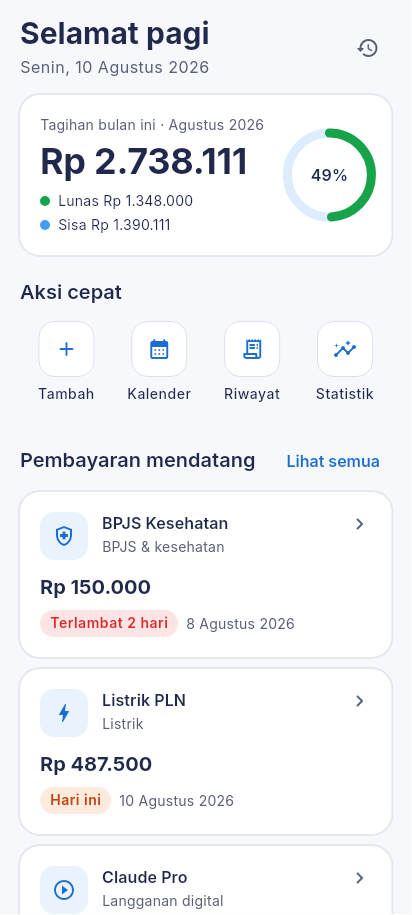
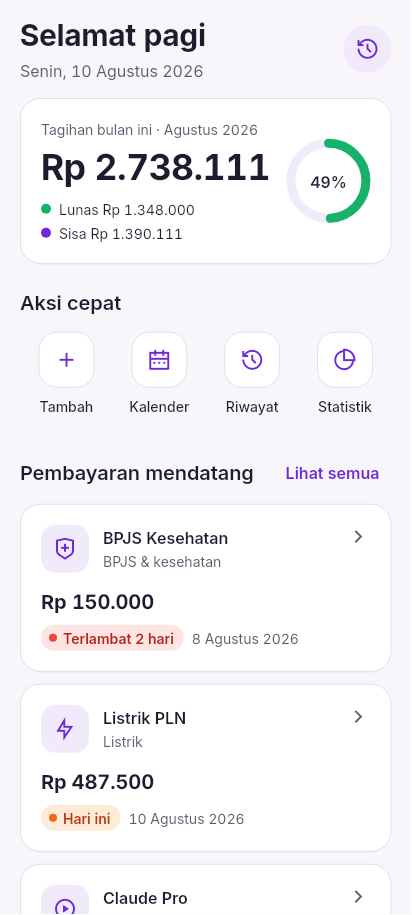
docs(design): document the Plum design system and the UI kit (#46)
DESIGN.md now covers the kit file by file, the Plum palette, Remix
icons, shape and motion tokens, navigation, components and
accessibility, plus a "Not the platform look" section listing the
Material and iOS patterns the app avoids. ARCHITECTURE.md describes
lib/ui and WidgetsApp, and the README gets the Plum badge and new
screenshots from the goldens.

Closes #46

diff --git a/docs/DESIGN.md b/docs/DESIGN.md
@@ -1,90 +1,167 @@
 # B4Due design system
 
-A calm, trustworthy "fintech" look: Material 3, one brand colour (Electric Blue), generous
-spacing, rounded cards. Everything below is implemented in `lib/app/theme.dart`
-(`Palette` for colours, `Tokens` for spacing and radii, `buildAppTheme` for the
-Material theme). Widgets read colours with `context.palette`, never hard-coded values.
+A calm, trustworthy look with one brand colour (Plum), generous spacing and rounded cards.
+B4Due draws every control itself: there are **no Material or Cupertino widgets** in `lib/`
+(enforced by `test/ui/no_material_test.dart`). The app runs on `WidgetsApp` and the kit in
+`lib/ui/`:
+
+| File | Contents |
+|---|---|
+| `tokens.dart` | `Palette` (colours, light and dark) and `Tokens` (spacing, radii, motion) |
+| `theme.dart` | `AppText` (type scale), `B4ThemeScope`, `context.palette`, `context.text` |
+| `icons.dart` | `RemixIcons`: the subset of Remix Icon the app uses |
+| `pressable.dart` | `Pressable`: the tap primitive behind every control |
+| `buttons.dart` | `B4Button` (primary, tonal, outline, ghost; destructive), `B4IconButton`, `B4TicketButton` |
+| `surfaces.dart` | `B4Card`, `B4ListGroup`, `B4ListRow`, `B4IconTile`, `B4Note`, `B4EmptyState` |
+| `controls.dart` | `B4Switch`, `B4SwitchRow`, `B4Chip`, `B4FilterTag` |
+| `text_field.dart` | `B4TextField`, `B4TextFormField`, `B4SearchField`, selection handles, text menu |
+| `pickers.dart` | `B4FieldButton`, `B4SelectField`, `B4MonthGrid`, date and time pickers |
+| `overlays.dart` | `showB4Sheet`, `showB4Dialog`, `showB4Confirm`, `B4Toast` |
+| `scaffold.dart` | `B4Scaffold`, `B4TopBar`, `B4PageTitle`, `B4SectionHeader`, `B4BottomNav` |
+| `navigation.dart` | page transitions for go_router, `B4Expandable` |
+
+Widgets read colours with `context.palette` and styles with `context.text`, never hard-coded
+values. Import everything with `import '../ui/ui.dart';`.
 
 ## Logo
 
-A white calendar card with a Midnight Navy header and a check mark in primary text blue
-(`#1C6DD0`), on a diagonal Electric Blue (`#459AF8`) to Cornflower (`#375390`) gradient.
-Sources: the adaptive-icon vectors in `android/app/src/main/res/drawable/ic_launcher_*.xml`
-(including a monochrome version for themed icons) and `tool/generate_icons.py`, which renders
-the same geometry as PNG for older Android, iOS and `docs/images/icon-512.png`. The
-notification icon is the same mark as a white silhouette, tinted Electric Blue. The splash
-screen uses the page background (`#F7F8FC` light, `#0F172A` dark).
+A white calendar card with an Ink (`#1F1A2E`) header and a Plum (`#6D28D9`) check mark, on a
+diagonal Violet (`#8B5CF6`) to deep Plum (`#4C1D95`) gradient. Sources: the adaptive-icon
+vectors in `android/app/src/main/res/drawable/ic_launcher_*.xml` (including a monochrome
+version for themed icons) and `tool/generate_icons.py`, which renders the same geometry as PNG
+for older Android, iOS and `docs/images/icon-512.png`. The notification icon is the same mark
+as a white silhouette, tinted Plum. The splash screen uses the page background (`#F8F6FB`
+light, `#14111C` dark). The logo is our own drawing; Remix Icon's licence does not allow its
+icons as a logo.
 
 ## Colour
 
+Plum was chosen because it collides with none of the status colours, so a coloured chip always
+means a state, never the brand. White on Plum is 7.1:1.
+
 | Role | Light | Dark | Use |
 |---|---|---|---|
-| Primary (Electric Blue) | `#459AF8` | `#459AF8` | filled buttons, FAB, selected chips, today in the calendar |
-| On primary | `#20294C` | `#0B1530` | text and icons on blue fills |
-| Primary text | `#1C6DD0` | `#6CB0FA` | links, icons, "≈ Rp …" estimates |
-| Midnight Navy | `#20294C` | – | text, snackbar background |
-| Background | `#F7F8FC` | `#0F172A` | page |
-| Surface / card | `#FFFFFF` | `#1E293B` / `#243247` | cards, sheets, navigation bar |
-| Surface variant | `#F0F1F5` | `#243247` | input fills, icon tiles |
-| Outline | `#C7CBDB` | `#334155` | card borders, dividers |
+| Primary (Plum) | `#6D28D9` | `#B197FC` | filled buttons, FAB, selected chips and tabs, today in the calendar |
+| On primary | `#FFFFFF` | `#1A1033` | text and icons on Plum fills |
+| Primary text | `#6D28D9` | `#C4B1FD` | ghost buttons, icons, "≈ Rp …" estimates |
+| Primary soft | `#F0EAFB` | `#2E2547` | icon tiles, sheet close button, toast action |
+| Background | `#F8F6FB` | `#14111C` | page |
+| Surface | `#FFFFFF` | `#1F1A2B` | cards, sheets, dialogs, navigation bar |
+| Surface variant | `#F1EDF7` | `#2A2438` | input fills |
+| Outline / strong | `#E4DEEC` / `#CFC6DC` | `#2E2740` / `#453C5C` | card borders, dividers / outlined buttons, chips |
+| Text / secondary | `#1F1A2E` / `#625B70` | `#EDE9F5` / `#A9A2BA` | |
+| Inverse surface | `#1F1A2E` | `#EDE9F5` | chart tooltips |
+
+Charts use `Palette.chart`: Plum first, then sky, teal, amber, magenta, lavender, blue and grey.
 
 ### Status
 
-Each bill has one status (`BillStatus`), shown as a coloured dot (calendar) and a tinted chip
-with a label (cards). Colour is never the only signal: the chip always carries text such as
-"Terlambat 2 hari" or "Hari ini".
+Each bill has one status (`BillStatus`), shown as a coloured dot (calendar) and a chip with a
+dot and a label (cards). Colour is never the only signal: the chip always carries text such as
+"Terlambat 2 hari" or "Hari ini". **Mendatang** (upcoming) is deliberately neutral, so only
+states that need action are coloured.
 
-| Status | Dot / tint | Text (light) | Text (dark) |
+| Status | Dot | Text / chip (light) | Text / chip (dark) |
 |---|---|---|---|
-| Lunas (paid) | `#16A34A` | `#15803D` | `#22C55E` |
-| Mendatang (upcoming, > 3 days) | `#3B82F6` | `#2563EB` | `#60A5FA` |
-| Segera (due within 3 days) | `#F59E0B` | `#B45309` | `#F59E0B` |
-| Hari ini (today) | `#F97316` | `#C2410C` | `#FB923C` |
-| Terlambat (overdue) | `#EF4444` | `#DC2626` | `#F87171` |
-| Dihapus (cancelled) | `#94A3B8` | – | – |
+| Lunas (paid) | `#17B26A` | `#067647` on `#DCFAE6` | `#47CD89` on `#0E3123` |
+| Mendatang (upcoming, > 3 days) | `#8E87A0` | `#524B63` on `#EFECF4` | `#BDB6CC` on `#2A2438` |
+| Segera (due within 3 days) | `#F79009` | `#B54708` on `#FEF0C7` | `#FDB022` on `#3A2A08` |
+| Hari ini (today) | `#EF6820` | `#B93815` on `#FDEAD7` | `#FF9C66` on `#3D2113` |
+| Terlambat (overdue) | `#F04438` | `#B42318` on `#FEE4E2` | `#F97066` on `#3D1916` |
+| Dihapus (cancelled) | `#A39CB4` | – | – |
 
 ## Typography
 
-Inter (bundled, SIL OFL 1.1). Display 36/30 bold for page titles and the monthly total,
-headline 24/20 semibold, title 18/16, body 16/14, labels 14. **Nothing is smaller than 14sp**,
-and every screen is checked at 160 % system font size (golden test `home_large_text.png`).
+Inter (bundled, SIL OFL 1.1) with tabular figures, so amounts and dates line up. Display 36/30
+bold for the monthly total and page titles, headline 24/20 semibold, title 18/16, body 16/14,
+labels 14. **Nothing is smaller than 14sp**, and every screen is checked at 160 % system font
+size (golden test `home_large_text.png`). Bottom-navigation labels scale down only when a label
+is too wide for its slot.
 
-## Shape and spacing
+## Icons
+
+[Remix Icon](https://remixicon.com) **v4.8.0**, the last release under the Apache License 2.0
+(later releases use a custom licence). The font is vendored in `assets/fonts/RemixIcon.ttf`
+with its licence beside it; release builds tree-shake it to the glyphs in
+`lib/ui/icons.dart`. Line icons everywhere; filled icons only for the selected tab.
+
+## Shape, spacing and motion
 
 | Token | Value |
 |---|---|
 | Page padding | 20 |
 | Section gap / card gap / list gap | 24 / 16 / 12 |
 | Card radius | 20 |
-| Button and input radius, height | 16, 56 |
+| Button and input radius, height | 16, 56 (compact 44) |
+| Chip radius, height | 12, 40 |
 | Dialog radius | 24 |
 | Bottom sheet radius | 28 |
-| Bottom navigation | height 80, top corners 24 |
-| Motion | 200 ms |
+| Bottom navigation | floating dock, radius 24, 12 from the sides |
+| Touch target | at least 48 |
+| Motion | 200 ms (280 ms for sheets and page pushes), ease-out cubic |
+
+Pressed controls scale down slightly (to 98 %, icon buttons 92 %) and tint, instead of a ripple.
+Cards have a 1px outline; light mode adds a soft shadow, dark mode relies on the outline.
 
 ## Navigation
 
-Five tabs: **Beranda**, **Kalender**, **Langganan**, **Statistik**, **Pengaturan**. Each tab
-keeps its own scroll position. Detail pages (bill detail, form, history, PIN, battery guide)
-open full screen above the tabs with a back button. Bottom sheets open above the navigation bar.
+Five tabs: **Beranda**, **Kalender**, **Langganan**, **Statistik**, **Pengaturan**. The tabs sit in
+a dock floating above the page edge; the active tab gets a Plum marker hanging from the dock's
+top edge (like the tab on a calendar divider) above a filled icon. Each tab keeps its own scroll position. Detail pages
+(bill detail, form, history, PIN, battery guide) slide in above the tabs with a back button.
+Sheets slide up from the bottom with a title and a close button, and can also be dragged
+down to close.
 
 ## Components
 
 - **Subscription card**: category tile, name and category, price (foreign currency shows
   "US$20,00 ≈ Rp 357.611"), status chip and due date. Swipe right: mark as paid (with undo).
-  Swipe left: delete (asks first). The whole card is one accessible button with a combined label.
+  Swipe left: delete (asks first).
 - **Monthly spending card**: this month's total, paid versus remaining, and a progress ring
   (decorative; screen readers read the percentage once).
+- **Add button** (`B4TicketButton`): shaped like a bill ticket, with an icon stub, a dashed
+  perforation and notches top and bottom, then the label "Tambah tagihan".
+- **Switch**: a squircle track with a square knob that keeps its size; position and fill tell
+  the state, no icon in the knob.
+- **Chips**: a leading ring, hollow when off and filled when on, so the choice reads without
+  colour; selected chips are filled Plum, unselected ones a soft fill without a border.
+- **Text fields**: label above the field, Plum focus border, error message with an icon below.
+  Long-press opens the app's own Potong / Salin / Tempel / Pilih semua menu, a light card with
+  Plum labels.
+- **Pickers**: dropdowns are sheets listing the options; the date picker is a month grid of
+  rounded-square days with a tappable title for jumping years; the time picker has hour and
+  minute steppers (minutes in steps of five) plus quick times 07.00, 09.00, 12.00, 17.00 and
+  20.00. Screen readers adjust the steppers with swipe up/down.
+- **Dialogs**: an icon tile (red for destructive actions), title, text, and two buttons of equal
+  width: outlined cancel and filled confirm.
+- **Toast**: replaces snackbars. A light card with a status-coloured edge and icon tile at the
+  top of the screen (never under the keyboard, navigation bar or add button), optional action
+  such as "Batalkan", swipe up to dismiss.
+- **Loading**: three Plum dots pulsing in turn.
+- **PIN pad**: rounded-square keys, not the round keys of a system lock screen.
 - **Empty state**: illustration tile, title, one sentence, one primary action.
+- **Detail rows**: long-press copies the value (handy for a customer number in the notes).
 
-## Accessibility (WCAG AA) adjustments to the original spec
+## Accessibility (WCAG AA)
 
-- White on Electric Blue is only 2.9:1, so text and icons on blue use Midnight Navy (4.9:1).
-- Status colours from the spec are kept for dots and backgrounds; status *text* uses the darker
-  (light mode) or lighter (dark mode) shades above to reach 4.5:1.
-- Swipe backgrounds use `#15803D` (paid) and `#DC2626` (delete) behind white icons and text.
-- Minimum text size is 14sp instead of 12sp.
-- Touch targets are at least 48dp.
+- Every text/background pair the kit draws is checked at 4.5:1 or more, in both themes
+  (`test/ui/palette_contrast_test.dart`).
+- Status dots use the bright shades; status text uses darker (light mode) or lighter (dark mode)
+  shades on a tinted chip to reach 4.5:1.
+- Swipe backgrounds use `#067647` (paid) and `#B42318` (delete) behind white icons and text.
+- Icon-only buttons always have a spoken label; switches and selected chips report their state.
+- Minimum text size is 14sp. Touch targets are at least 48dp.
+
+## Not the platform look
+
+Being drawn by the app is not enough; controls must not *look* like Android (Material) or iOS
+defaults either. So there is no ripple, no pill navigation indicator, no thumb-growing switch,
+no extended FAB, no check-mark filter chips, no drag handle on sheets, no right-aligned text
+buttons in dialogs, no dark snackbar, no spinning arc, no wheel or clock time picker, and no
+round calendar-day or PIN keys. New components follow the same rule.
+
+The only system UI left is what Android itself draws and the app cannot replace: the
+fingerprint prompt, the file picker for backups, the share sheet and notifications.
 
 ## Deliberate differences from the original spec
 

diff --git a/docs/ARCHITECTURE.md b/docs/ARCHITECTURE.md
@@ -9,7 +9,8 @@ the app is closed. This document explains those choices.
 ```
 lib/
   main.dart                 start-up: time zone, notifications, database, providers
-  app/                      MaterialApp, theme, routes (go_router)
+  ui/                       the app's own UI kit: tokens, theme, icons, components
+  app/                      WidgetsApp, app frame, shell, routes (go_router)
   core/
     database/               Drift database, tables, converters, generated migrations
     format/                 Rupiah and Indonesian date formatting
@@ -29,9 +30,12 @@ Features: `bills`, `payments`, `reminders`, `home`, `insights` (calendar view an
 statistics), `currency`, `templates`, `backup`, `security`, `calendar` (device calendar
 export), `battery`, `onboarding`, `settings`.
 
-The UI follows [DESIGN.md](DESIGN.md): colours and spacing live in `app/theme.dart`
-(`Palette` theme extension, `Tokens`), and the five tabs are a go_router
-`StatefulShellRoute` (`app/shell.dart`); detail pages are pushed above the bottom navigation.
+The UI follows [DESIGN.md](DESIGN.md). There are no Material or Cupertino widgets: the app
+runs on `WidgetsApp`, and every control comes from `lib/ui/` (colours and spacing in
+`ui/tokens.dart`, read through `context.palette` and `context.text`). A test fails if anything
+in `lib/` imports `material.dart` or `cupertino.dart`. The five tabs are a go_router
+`StatefulShellRoute` (`app/shell.dart`); detail pages are pushed above the bottom navigation
+with the kit's own page transition.
 
 Domain code has no Flutter imports, so the rules are unit-tested without widgets or a device.
 State is Riverpod (no code generation); navigation is go_router.

diff --git a/README.md b/README.md
@@ -11,7 +11,7 @@
 
 <p align="center">
   <a href="https://github.com/ryanffirdaus/b-4-due/actions/workflows/ci.yml"><img src="https://github.com/ryanffirdaus/b-4-due/actions/workflows/ci.yml/badge.svg" alt="CI"></a>
-  <a href="LICENSE"><img src="https://img.shields.io/badge/lisensi-MIT-459af8" alt="Lisensi MIT"></a>
+  <a href="LICENSE"><img src="https://img.shields.io/badge/lisensi-MIT-6d28d9" alt="Lisensi MIT"></a>
 </p>
 
 <p align="center"><a href="#english">English below</a></p>
